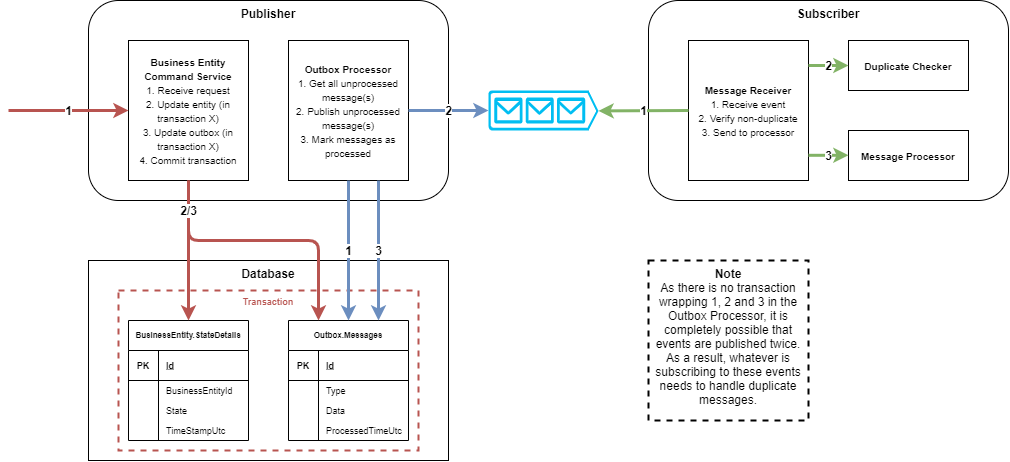
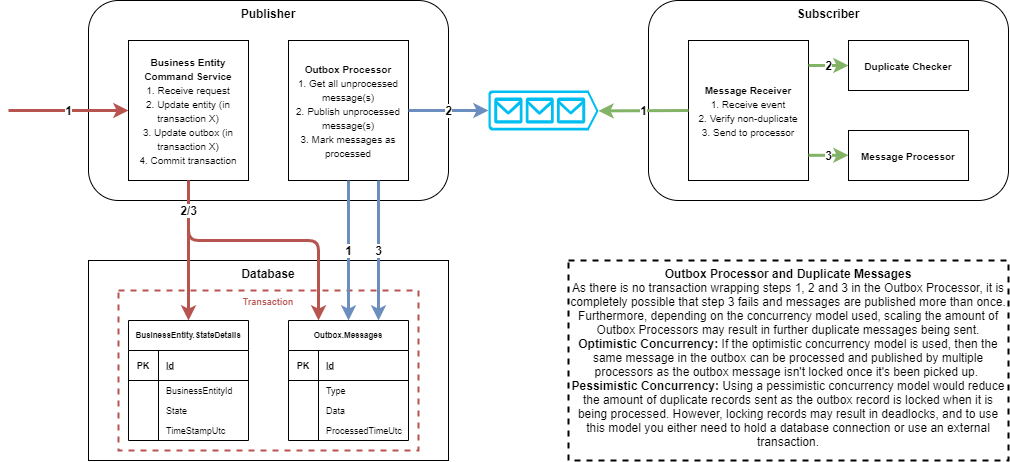
Update docs

Changed region(s): [[0.5525, 0.5455, 1.0, 1.0]]

diff --git a/src/OutboxPatternDemo.Publisher/Infrastructure/OutboxProcessor.cs b/src/OutboxPatternDemo.Publisher/Infrastructure/OutboxProcessor.cs
@@ -1,4 +1,5 @@
 using System;
+using System.Data;
 using System.Linq;
 using System.Threading;
 using System.Threading.Tasks;
@@ -63,9 +64,8 @@ namespace OutboxPatternDemo.Publisher.Infrastructure
                 }
 
                 unpublishedMessage.ProcessedTimeUtc = DateTime.UtcNow;
+                outboxContext.SaveChanges();
             }
-
-            outboxContext.SaveChanges();
         }
     }
 }
